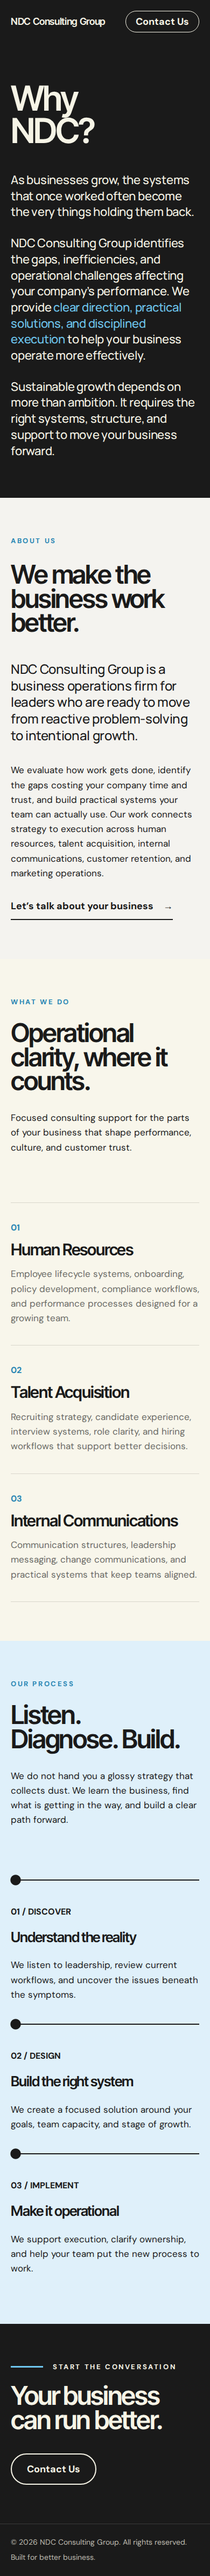
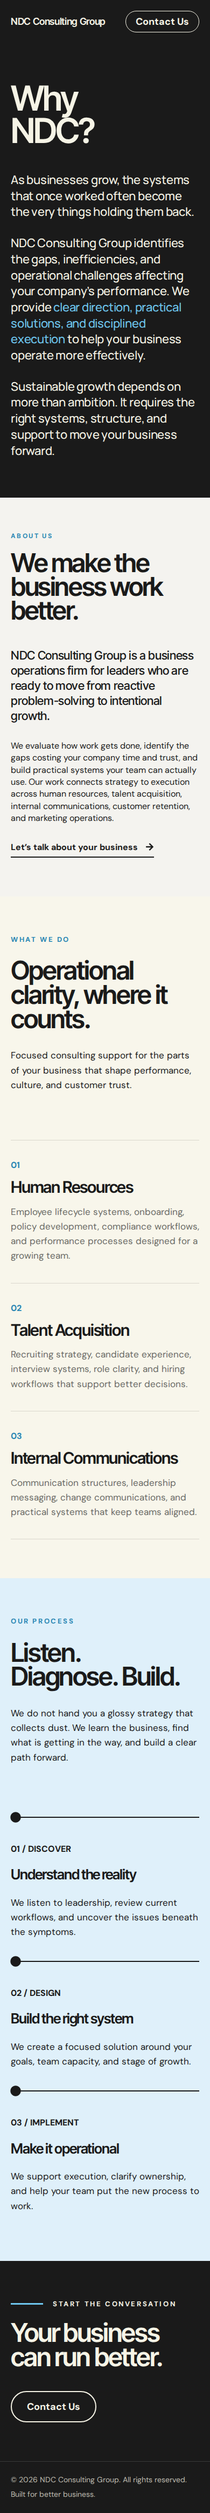
Restyle About section to match updated design
Heavier Inter Tight headline that breaks over three lines, semibold
lead sentence, larger body copy, smaller eyebrow, tighter section
padding, and a solid arrow on the underlined link.

Claude-Session: https://claude.ai/code/session_01F9ZgZWKECaq5b3TWi3gWQP

Changed region(s): [[0.0, 0.0311, 1.0, 0.9654], [0.8923, 0.7474, 0.9231, 0.7786]]

diff --git a/tools/build_ndc_homepage.py b/tools/build_ndc_homepage.py
@@ -172,9 +172,12 @@ def text(html, *, color=INK, typography, extra=None):
     return widget("text-editor", s)
 
 
-def eyebrow(label, color=EYEBROW):
-    return heading(label, tag="p", color=color,
-                   typography=typo(FONT_BODY, 17, "700", 1.2, 0.2, "uppercase", tablet=15, mobile=13))
+def eyebrow(label, color=EYEBROW, css=None):
+    if css:
+        t = typo(FONT_BODY, css, "700", 1.2, 0.2, "uppercase")
+    else:
+        t = typo(FONT_BODY, 17, "700", 1.2, 0.2, "uppercase", tablet=15, mobile=13)
+    return heading(label, tag="p", color=color, typography=t)
 
 
 def display(text_, color=INK, tag="h2", css="clamp(48px, 6.5vw, 136px)", tablet=None, mobile=None):
@@ -182,8 +185,8 @@ def display(text_, color=INK, tag="h2", css="clamp(48px, 6.5vw, 136px)", tablet=
                    typography=typo(FONT_DISPLAY, css, "600", 0.93, -0.045, tablet=tablet, mobile=mobile))
 
 
-def body_copy(html, color=INK, css="clamp(17px, 1.2vw, 24px)"):
-    return text(html, color=color, typography=typo(FONT_BODY, css, "400", 1.6))
+def body_copy(html, color=INK, css="clamp(17px, 1.2vw, 24px)", line_height=1.6):
+    return text(html, color=color, typography=typo(FONT_BODY, css, "400", line_height))
 
 
 def lead_copy(html, color=CREAM, css="clamp(22px, 2vw, 40px)"):
@@ -216,11 +219,14 @@ def pill_button(label, url, *, on_dark=True, extra=None):
     return widget("button", s)
 
 
-def arrow_link(label, url):
+def arrow_link(label, url, css="clamp(18px, 1.35vw, 26px)", underline_gap=12):
     """Underlined text link with a trailing arrow, built from the button widget."""
     return widget("button", {
-        "text": f"{label}\u2003\u2192",
+        "text": label,
         "link": {"url": url, "is_external": "", "nofollow": "", "custom_attributes": ""},
+        "selected_icon": {"value": "fas fa-arrow-right", "library": "fa-solid"},
+        "icon_align": "row-reverse",
+        "icon_indent": size(14),
         "button_text_color": INK,
         "hover_color": EYEBROW,
         "button_hover_border_color": EYEBROW,
@@ -232,8 +238,8 @@ def arrow_link(label, url):
         "border_width": box(0, 0, 2, 0),
         "border_color": INK,
         "border_radius": box(0, 0, 0, 0),
-        "text_padding": box(0, 0, 12, 0),
-        **typo(FONT_BODY, "clamp(18px, 1.35vw, 26px)", "700", 1.2),
+        "text_padding": box(0, 0, underline_gap, 0),
+        **typo(FONT_BODY, css, "700", 1.2),
     })
 
 
@@ -329,27 +335,31 @@ def about():
         [
             container(
                 [
-                    eyebrow("About us"),
-                    display("We make the business work better.", css="clamp(48px, 6.3vw, 128px)"),
+                    eyebrow("About us", css="clamp(12px, 1.05vw, 17px)"),
+                    heading("We make the business work better.", tag="h2", color=INK,
+                            typography=typo(FONT_DISPLAY, "clamp(48px, 6.4vw, 132px)", "600", 0.92, -0.05)),
                 ],
-                width=38, width_tablet=100, row_gap=32,
+                width=38, width_tablet=100, row_gap=20,
             ),
             container(
                 [
                     text("NDC Consulting Group is a business operations firm for leaders who are ready "
                          "to move from reactive problem-solving to intentional growth.",
-                         color=INK, typography=typo(FONT_LEAD, "clamp(24px, 2.2vw, 46px)", "500", 1.28, -0.015)),
+                         color=INK, typography=typo(FONT_DISPLAY, "clamp(22px, 2.45vw, 48px)", "500", 1.27, -0.015)),
                     body_copy("We evaluate how work gets done, identify the gaps costing your company time "
                               "and trust, and build practical systems your team can actually use. Our work "
                               "connects strategy to execution across human resources, talent acquisition, "
-                              "internal communications, customer retention, and marketing operations."),
-                    arrow_link("Let’s talk about your business", "#contact"),
+                              "internal communications, customer retention, and marketing operations.",
+                              css="clamp(16px, 1.45vw, 25px)", line_height=1.4),
+                    arrow_link("Let’s talk about your business", "#contact",
+                               css="clamp(16px, 1.5vw, 26px)", underline_gap=8),
                 ],
-                width=54, width_tablet=100, row_gap=36, align="flex-start",
+                width=56, width_tablet=100, row_gap=30, align="flex-start",
             ),
         ],
         direction="row", justify="space-between", align="flex-start", bg=BG_ABOUT, stack_on="tablet",
-        row_gap=48, padding=section_padding(), anchor="about", html_tag="section", is_inner=False,
+        row_gap=48, padding=section_padding(top=(88, 80, 64), bottom=(104, 88, 72)),
+        anchor="about", html_tag="section", is_inner=False,
     )
 
 
